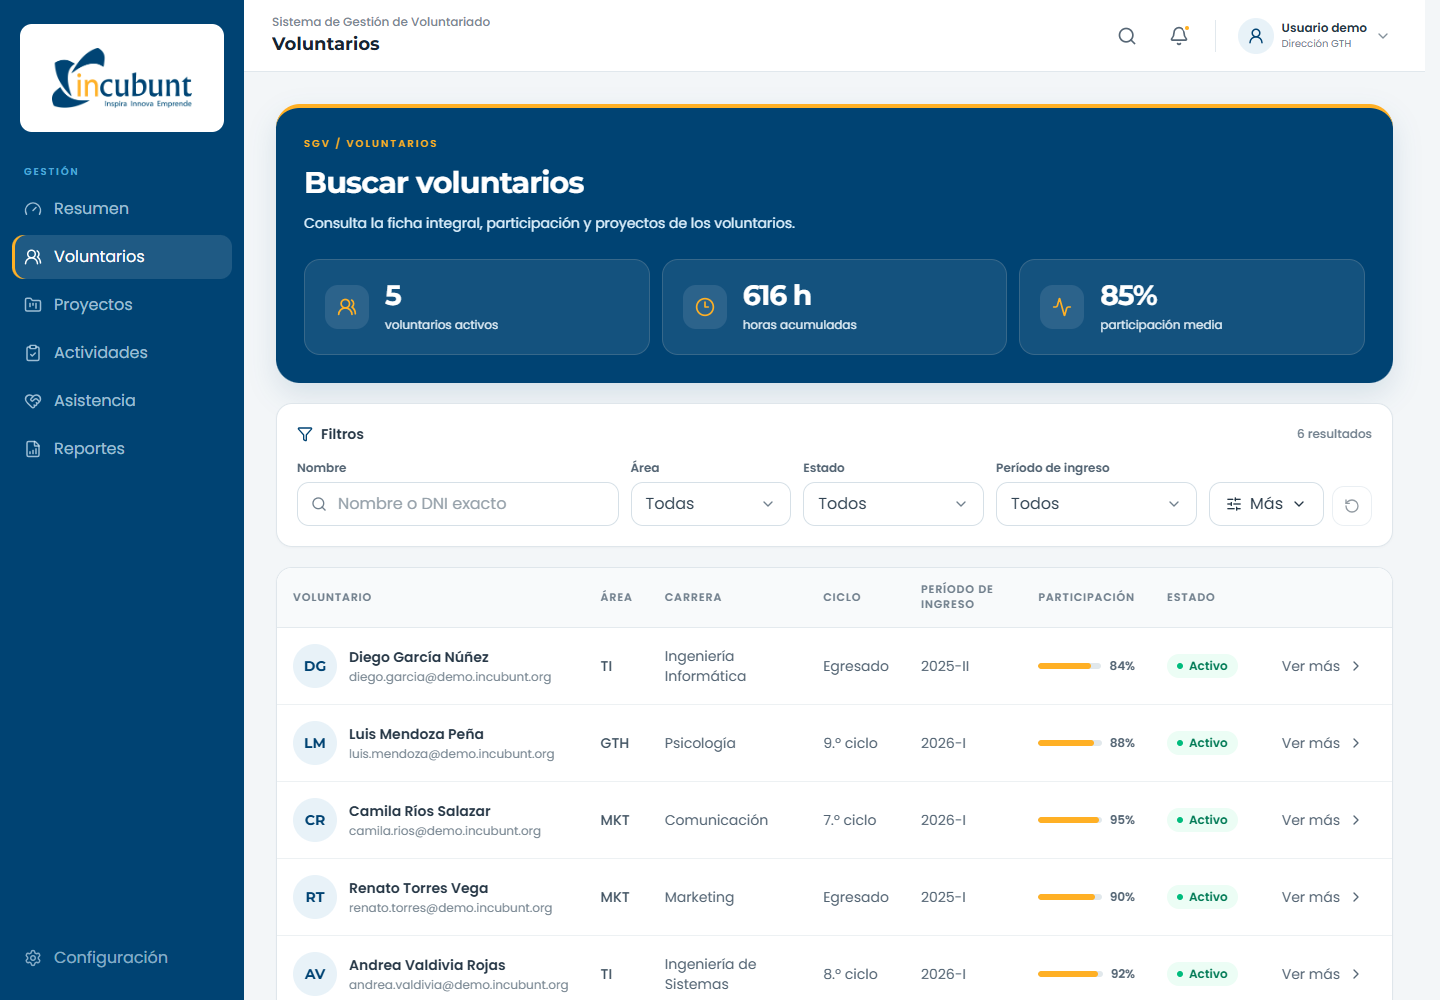
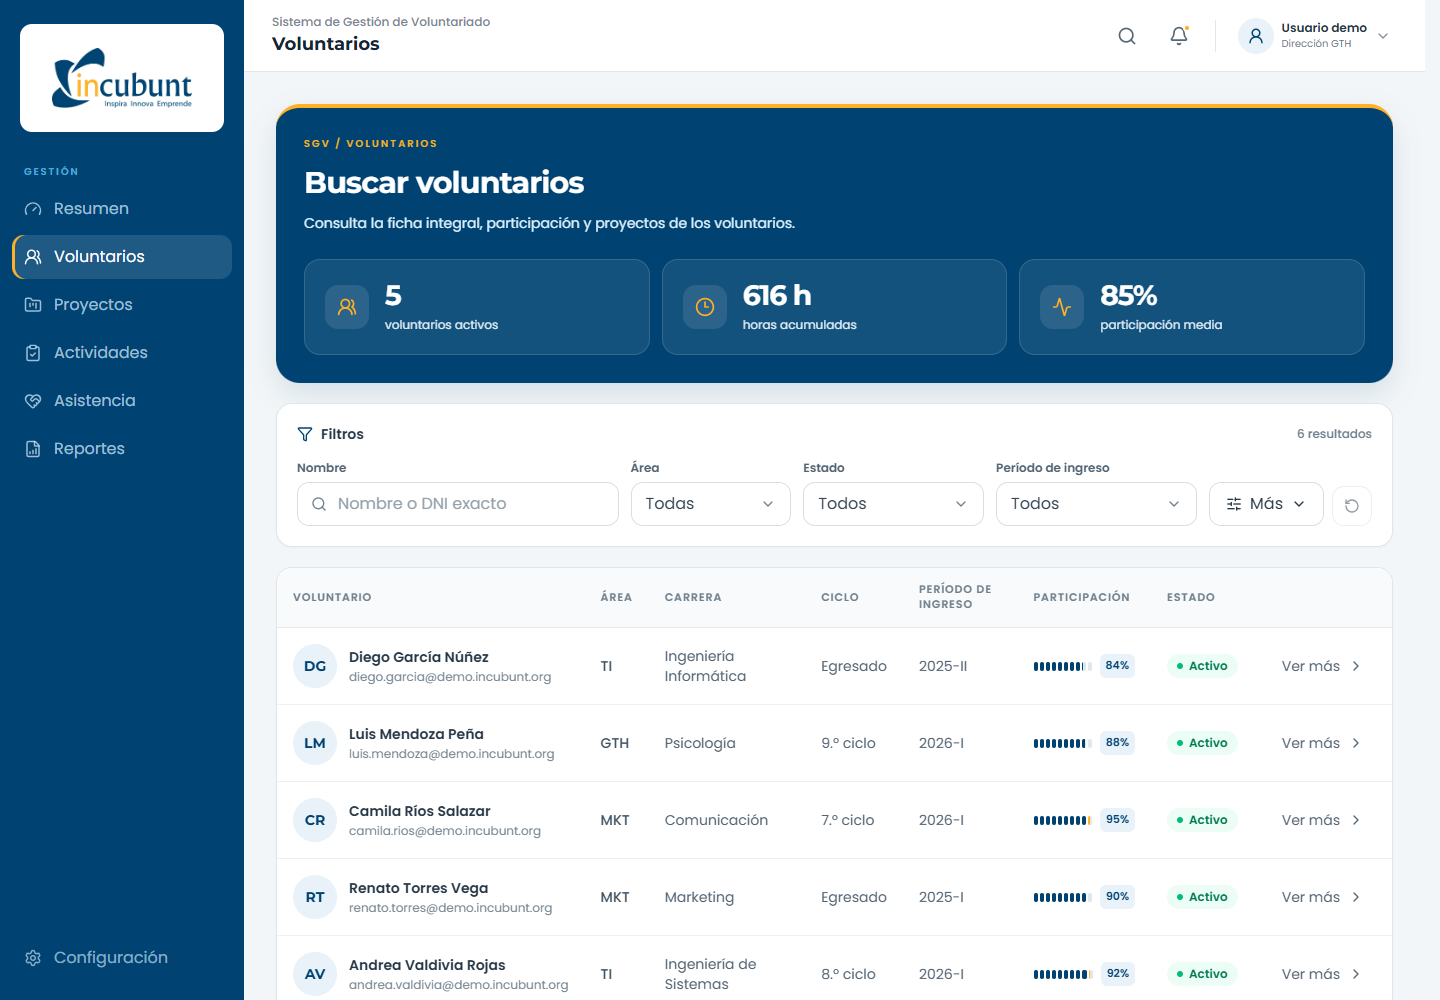
feat: renovar indicador de participacion en escritorio y movil

diff --git a/src/paginas/voluntarios/PaginaVoluntarios.tsx b/src/paginas/voluntarios/PaginaVoluntarios.tsx
@@ -13,6 +13,7 @@ import {
 import { FotoPerfil } from '../../componentes/interfaz/FotoPerfil'
 import { Boton } from '../../componentes/interfaz/Boton'
 import { InsigniaEstado } from '../../componentes/interfaz/InsigniaEstado'
+import { IndicadorParticipacion } from '../../componentes/interfaz/IndicadorParticipacion'
 import { FiltrosVoluntarios } from '../../componentes/voluntarios/FiltrosVoluntarios'
 import { voluntarios } from '../../datos/voluntarios'
 import type {
@@ -122,10 +123,7 @@ export function PaginaVoluntarios({ permisos, alVerVoluntario }: PropiedadesPagi
     ayudanteColumnas.accessor('participacion', {
       header: 'Participación',
       cell: ({ row: fila }) => (
-        <div className="flex min-w-24 items-center gap-2">
-          <div className="h-1.5 flex-1 overflow-hidden rounded-full bg-[#e1e8ec]"><div className="h-full rounded-full bg-[#ffb025]" style={{ width: `${fila.original.participacion}%` }} /></div>
-          <span className="text-xs font-semibold text-[#536473]">{fila.original.participacion}%</span>
-        </div>
+        <IndicadorParticipacion porcentaje={fila.original.participacion} />
       ),
     }),
     ayudanteColumnas.accessor('estado', { header: 'Estado', cell: ({ row: fila }) => <InsigniaEstado estado={fila.original.estado} /> }),
@@ -209,7 +207,8 @@ export function PaginaVoluntarios({ permisos, alVerVoluntario }: PropiedadesPagi
               <div className="min-w-0">
                 <h3 className="truncate text-sm font-semibold text-[#263746]">{fila.original.nombre}</h3>
                 <p className="truncate text-xs text-[#71808d]">{fila.original.email}</p>
-                <p className="mt-1 text-xs text-[#71808d]">{fila.original.area} · {fila.original.participacion}%</p>
+                <p className="mt-1 text-xs text-[#71808d]">{fila.original.area}</p>
+                <div className="mt-2"><IndicadorParticipacion porcentaje={fila.original.participacion} /></div>
               </div>
               <Boton variante="secundaria" tamaño="pequeño" className="col-span-2 justify-center min-[430px]:col-span-1" onClick={() => alVerVoluntario(fila.original.id)}>
                 Ver más <ChevronRight className="size-4" />

diff --git a/src/estilos.css b/src/estilos.css
@@ -87,6 +87,12 @@ main > section, main > div { animation: aparecer-sgv 240ms ease-out; }
 .indicador-circular figcaption p { margin-top: 5px; color: #657381; font-size: 12px; line-height: 1.7; }
 .indicador-circular__arco { transition: stroke-dashoffset 400ms ease; }
 .barra-horas { animation: crecer-barra 420ms ease-out both; transform-origin: bottom; }
+.participacion-segmentada { display: flex; align-items: center; gap: 8px; min-width: 96px; max-width: 100%; }
+.participacion-segmentada__tramos { display: flex; flex: 1; gap: 2px; min-width: 58px; }
+.participacion-segmentada__tramo { display: block; flex: 1; height: 9px; overflow: hidden; border-radius: 2px; background: #e1e8ec; }
+.participacion-segmentada__relleno { display: block; height: 100%; transform-origin: left; animation: participacion-entrar 360ms ease-out; }
+.participacion-segmentada strong { flex-shrink: 0; border-radius: 6px; background: #e8f2f8; padding: 4px 6px; color: #004373; font-size: 11px; font-variant-numeric: tabular-nums; }
+@keyframes participacion-entrar { from { transform: scaleX(0); } to { transform: scaleX(1); } }
 @keyframes crecer-barra { from { transform: scaleY(0); } to { transform: scaleY(1); } }
 @media (prefers-reduced-motion: reduce) {
   *, *::before, *::after { animation: none !important; transition: none !important; }

diff --git a/src/componentes/interfaz/IndicadorParticipacion.tsx b/src/componentes/interfaz/IndicadorParticipacion.tsx
@@ -1,0 +1,17 @@
+export function IndicadorParticipacion({ porcentaje }: { porcentaje: number }) {
+  const valor = Math.min(100, Math.max(0, porcentaje))
+  return (
+    <div className="participacion-segmentada" role="progressbar" aria-label="Participación"
+      aria-valuemin={0} aria-valuemax={100} aria-valuenow={valor} title={`Participación: ${valor}%`}>
+      <div className="participacion-segmentada__tramos" aria-hidden="true">
+        {Array.from({ length: 10 }, (_, indice) => (
+          <span key={indice} className="participacion-segmentada__tramo">
+            <span className="participacion-segmentada__relleno"
+              style={{ width: `${Math.min(100, Math.max(0, (valor - indice * 10) * 10))}%`, background: indice === 9 ? '#ffb025' : '#004373' }} />
+          </span>
+        ))}
+      </div>
+      <strong aria-hidden="true">{valor}%</strong>
+    </div>
+  )
+}

diff --git a/docs/ACTUALIZACION_VISUAL.md b/docs/ACTUALIZACION_VISUAL.md
@@ -15,6 +15,12 @@ La navegación es una propuesta local pendiente de la plantilla oficial. Los cam
 5. **Movimiento:** se limita a entradas breves y barras de la gráfica. No se transforman los contenedores generales o el logo. Con `prefers-reduced-motion`, las animaciones y transiciones se desactivan.
 6. **Pruebas:** compilar, revisar tipos y ejecutar las pruebas con el servidor de desarrollo activo. Las pruebas de navegador incluyen los nuevos controles y capturan las pantallas cuando las animaciones terminan.
 
+## Participación segmentada
+
+`src/componentes/interfaz/IndicadorParticipacion.tsx` sustituye la barra continua del directorio en escritorio y móvil. Cada uno de los diez segmentos representa diez puntos porcentuales; el último puede quedar parcialmente lleno. Los segmentos no alteran el valor: un 84 % ocupa ocho completos y cuatro décimas del noveno.
+
+El control expone `role="progressbar"`, `aria-valuenow`, mínimo y máximo, y muestra el número junto a los segmentos. Las clases `participacion-segmentada` en `src/estilos.css` definen el estilo y una entrada breve que se desactiva con movimiento reducido.
+
 ## Dependencias
 
 Los indicadores son SVG/CSS propios. Sonner se incorporó únicamente al sprint 2, siguiendo el patrón de notificaciones documentado por [shadcn/ui](https://ui.shadcn.com/docs/components/radix/sonner) y la [documentación de Sonner](https://sonner.emilkowal.ski/).
